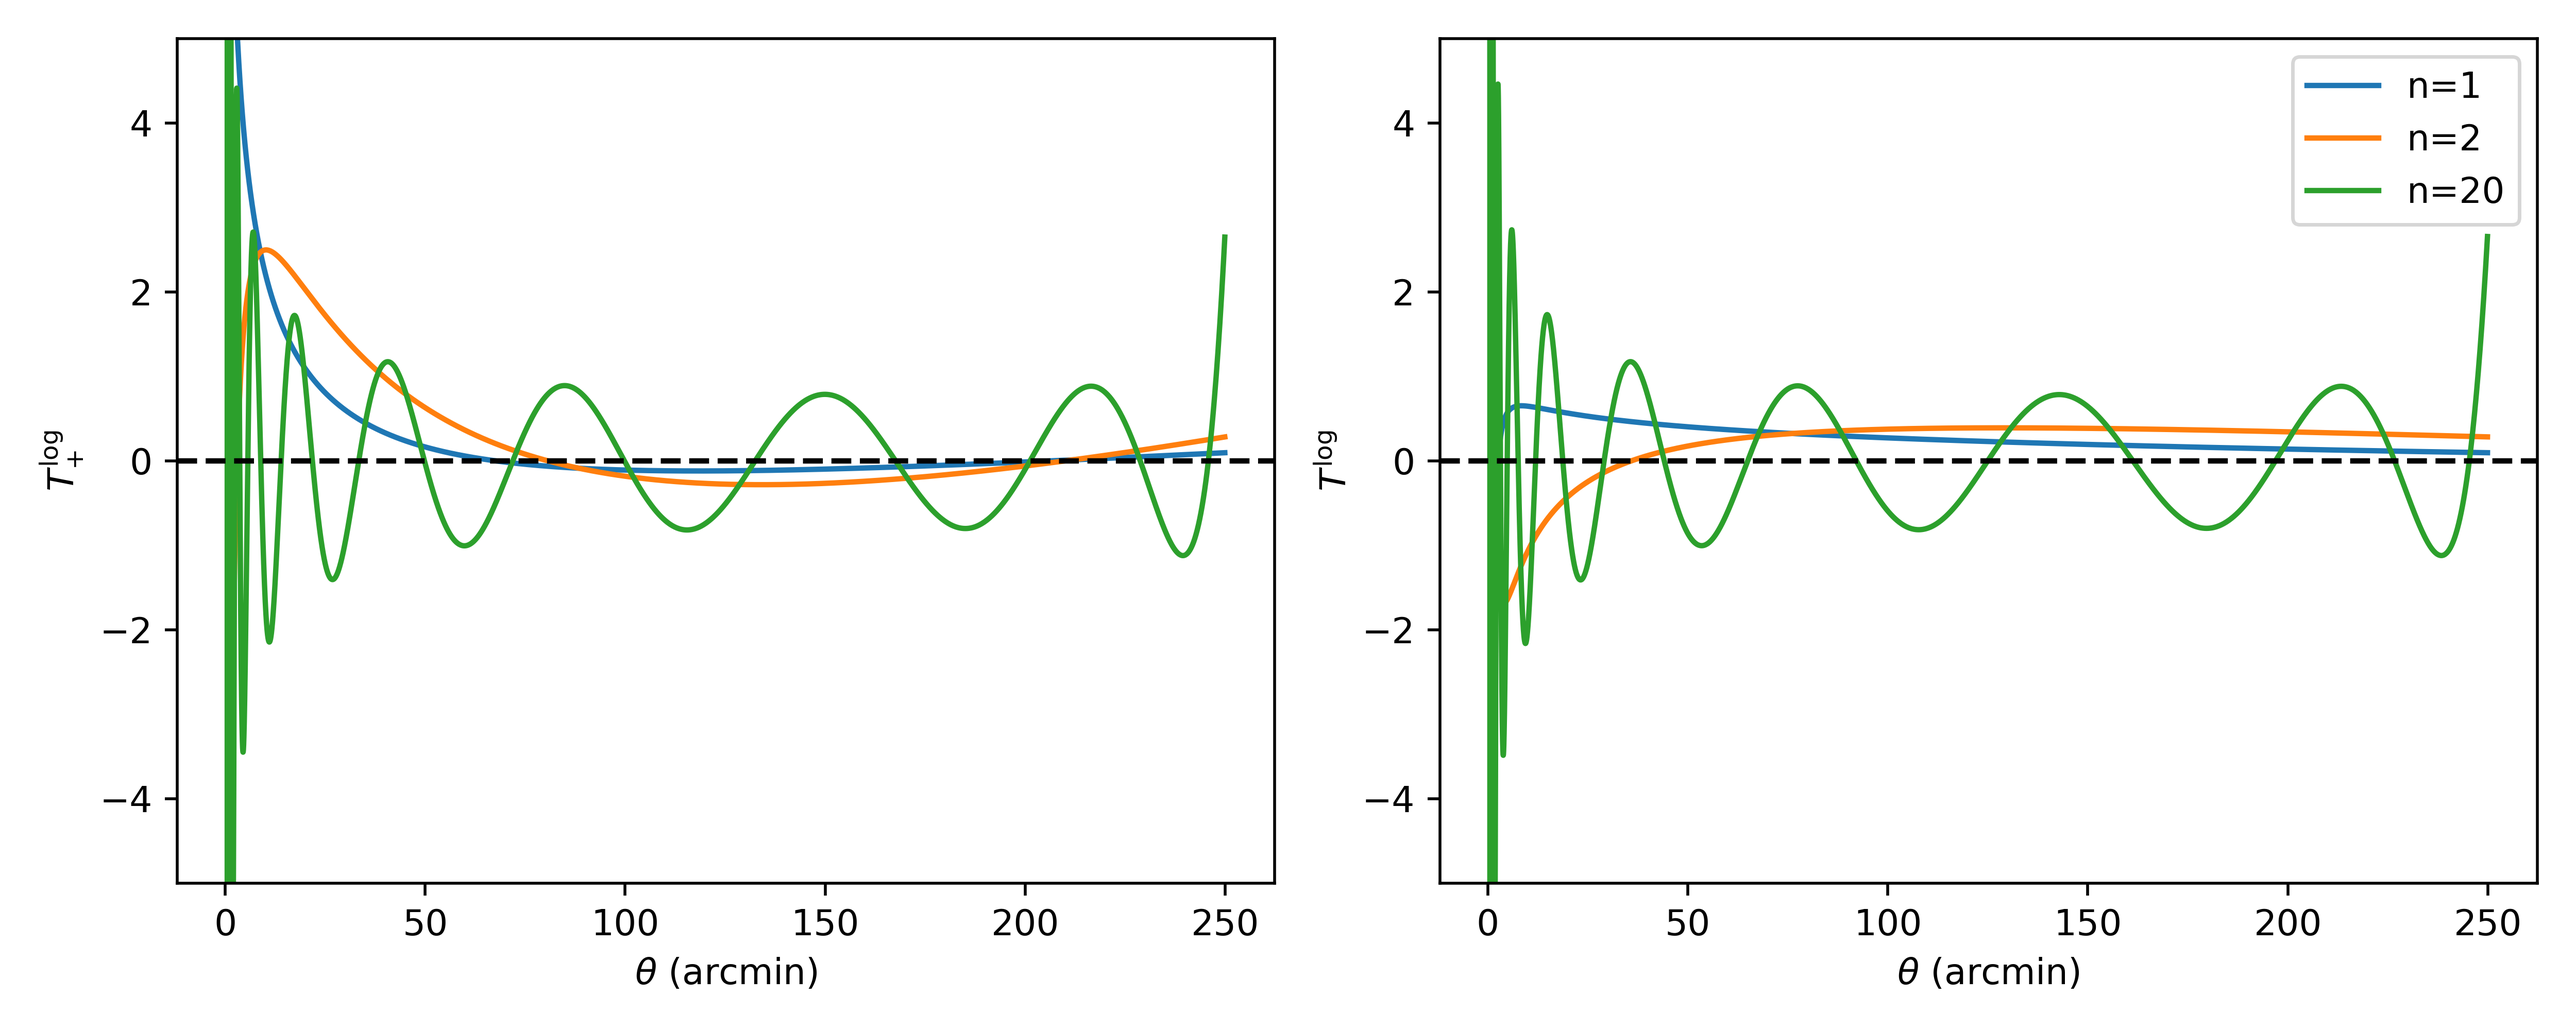
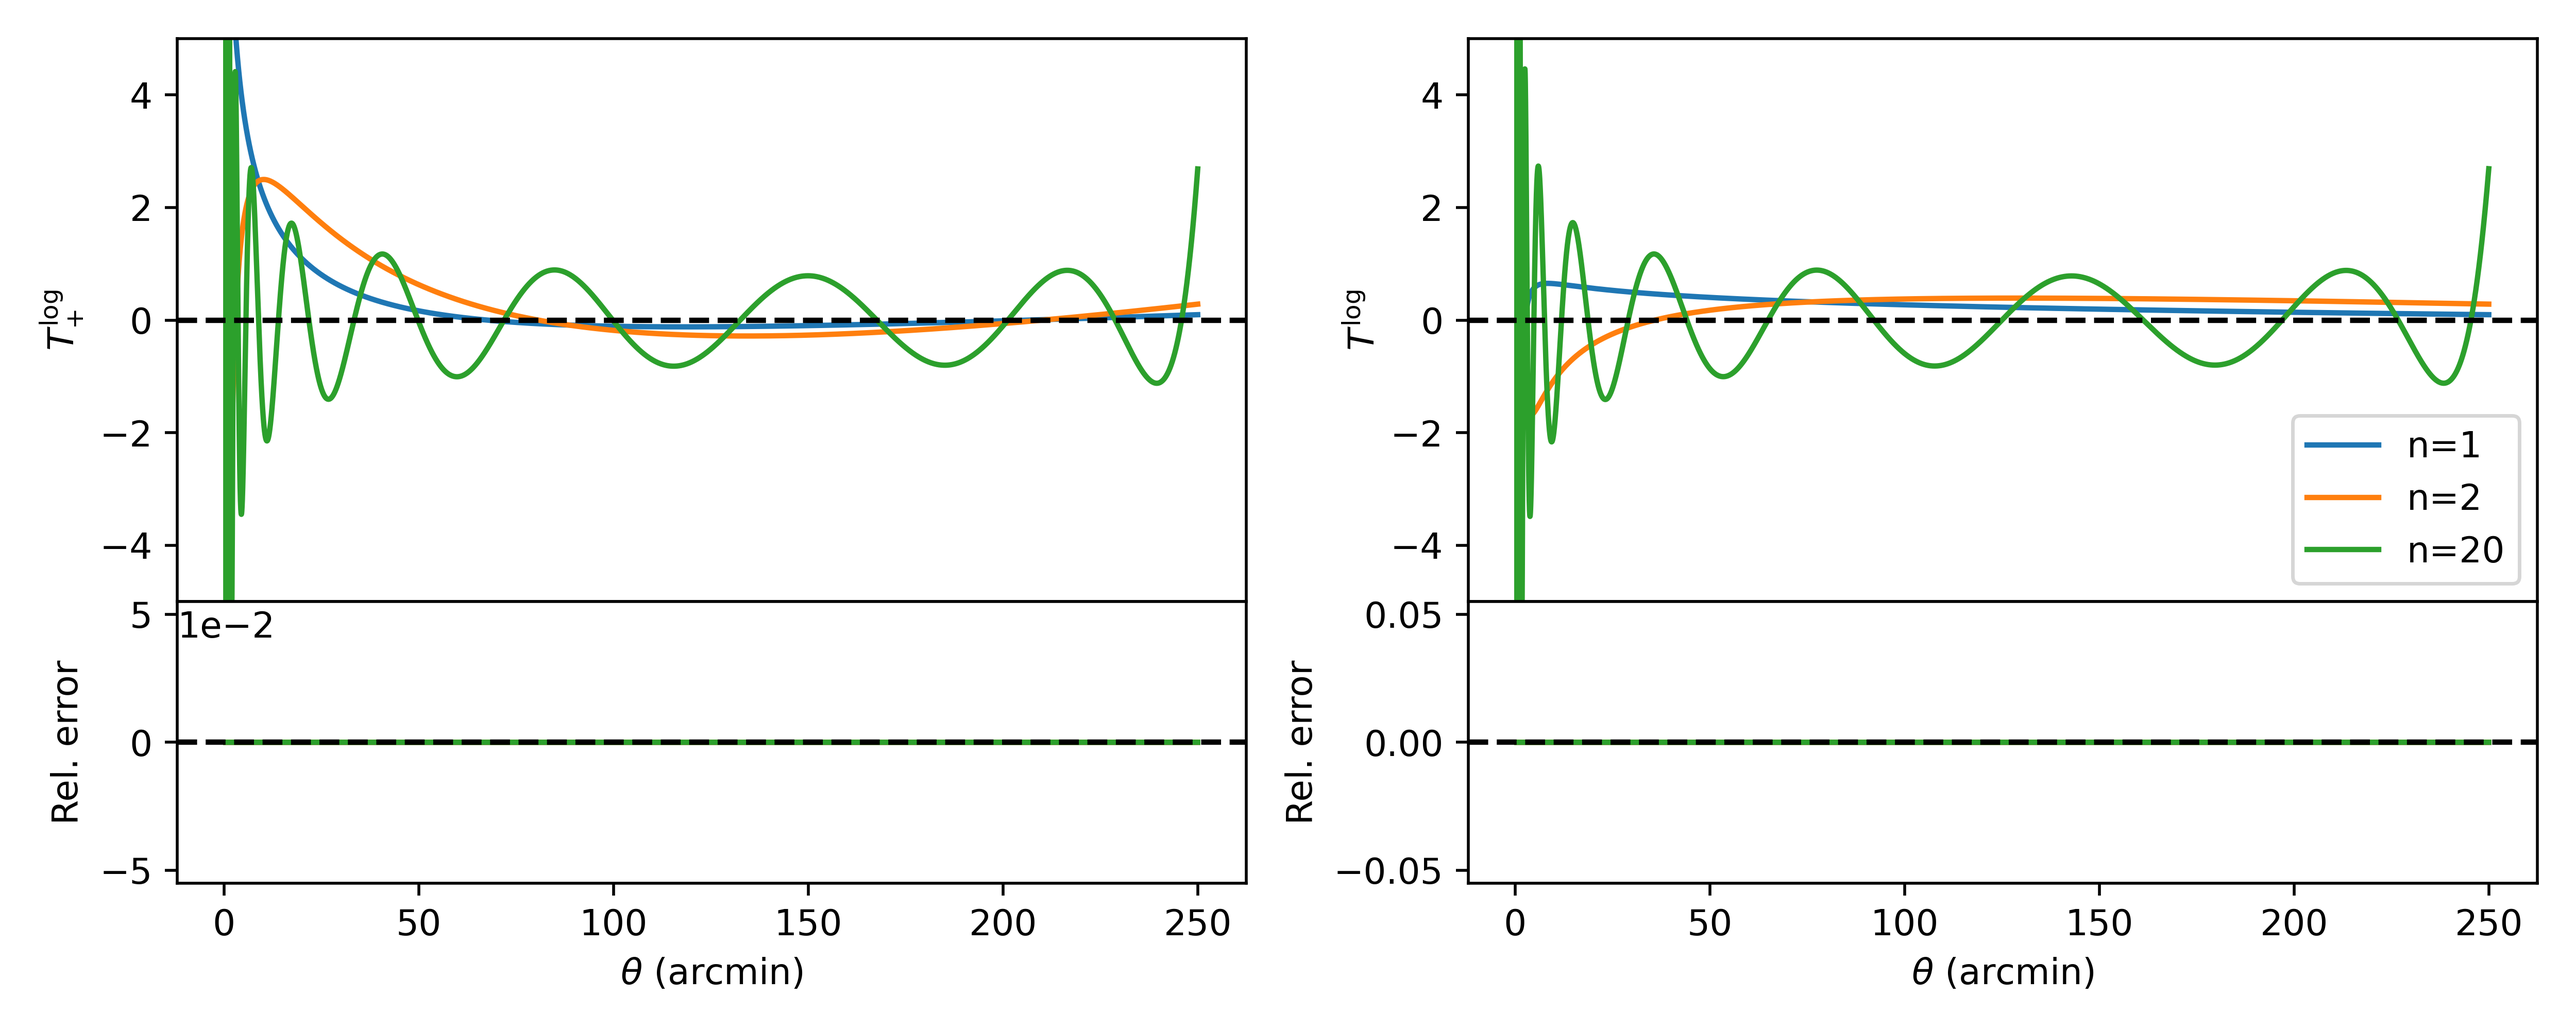
Update figure and caption

diff --git a/paper/paper.md b/paper/paper.md
@@ -73,7 +73,7 @@ whare $z = log(\theta/\theta_{\rm{min}})$, $N_{n}$ is the normalization for the
 mode $n$, and $\bar{c_{jn}}$ are defined iterratively from Bessel functions
 (we refer the readers to @Schneider_2010 for morre details).
 
-![Caption for example figure.\label{fig:Tpm}](cosebis_Tpm_log.png)
+![In this figure we show the impact of the precision in the computation weight function $$T_{\pm}^{\rm{log}}$$. For comparion, a precision of 15 correspond to what would be achieve using `numpy` float64. The relative error is computed with respect to the orignal mathematica implementation presented in @Schneider_2010.\label{fig:Tpm_prec}](cosebis_prec_Tpm.png)
 
 # Mathematics
 
